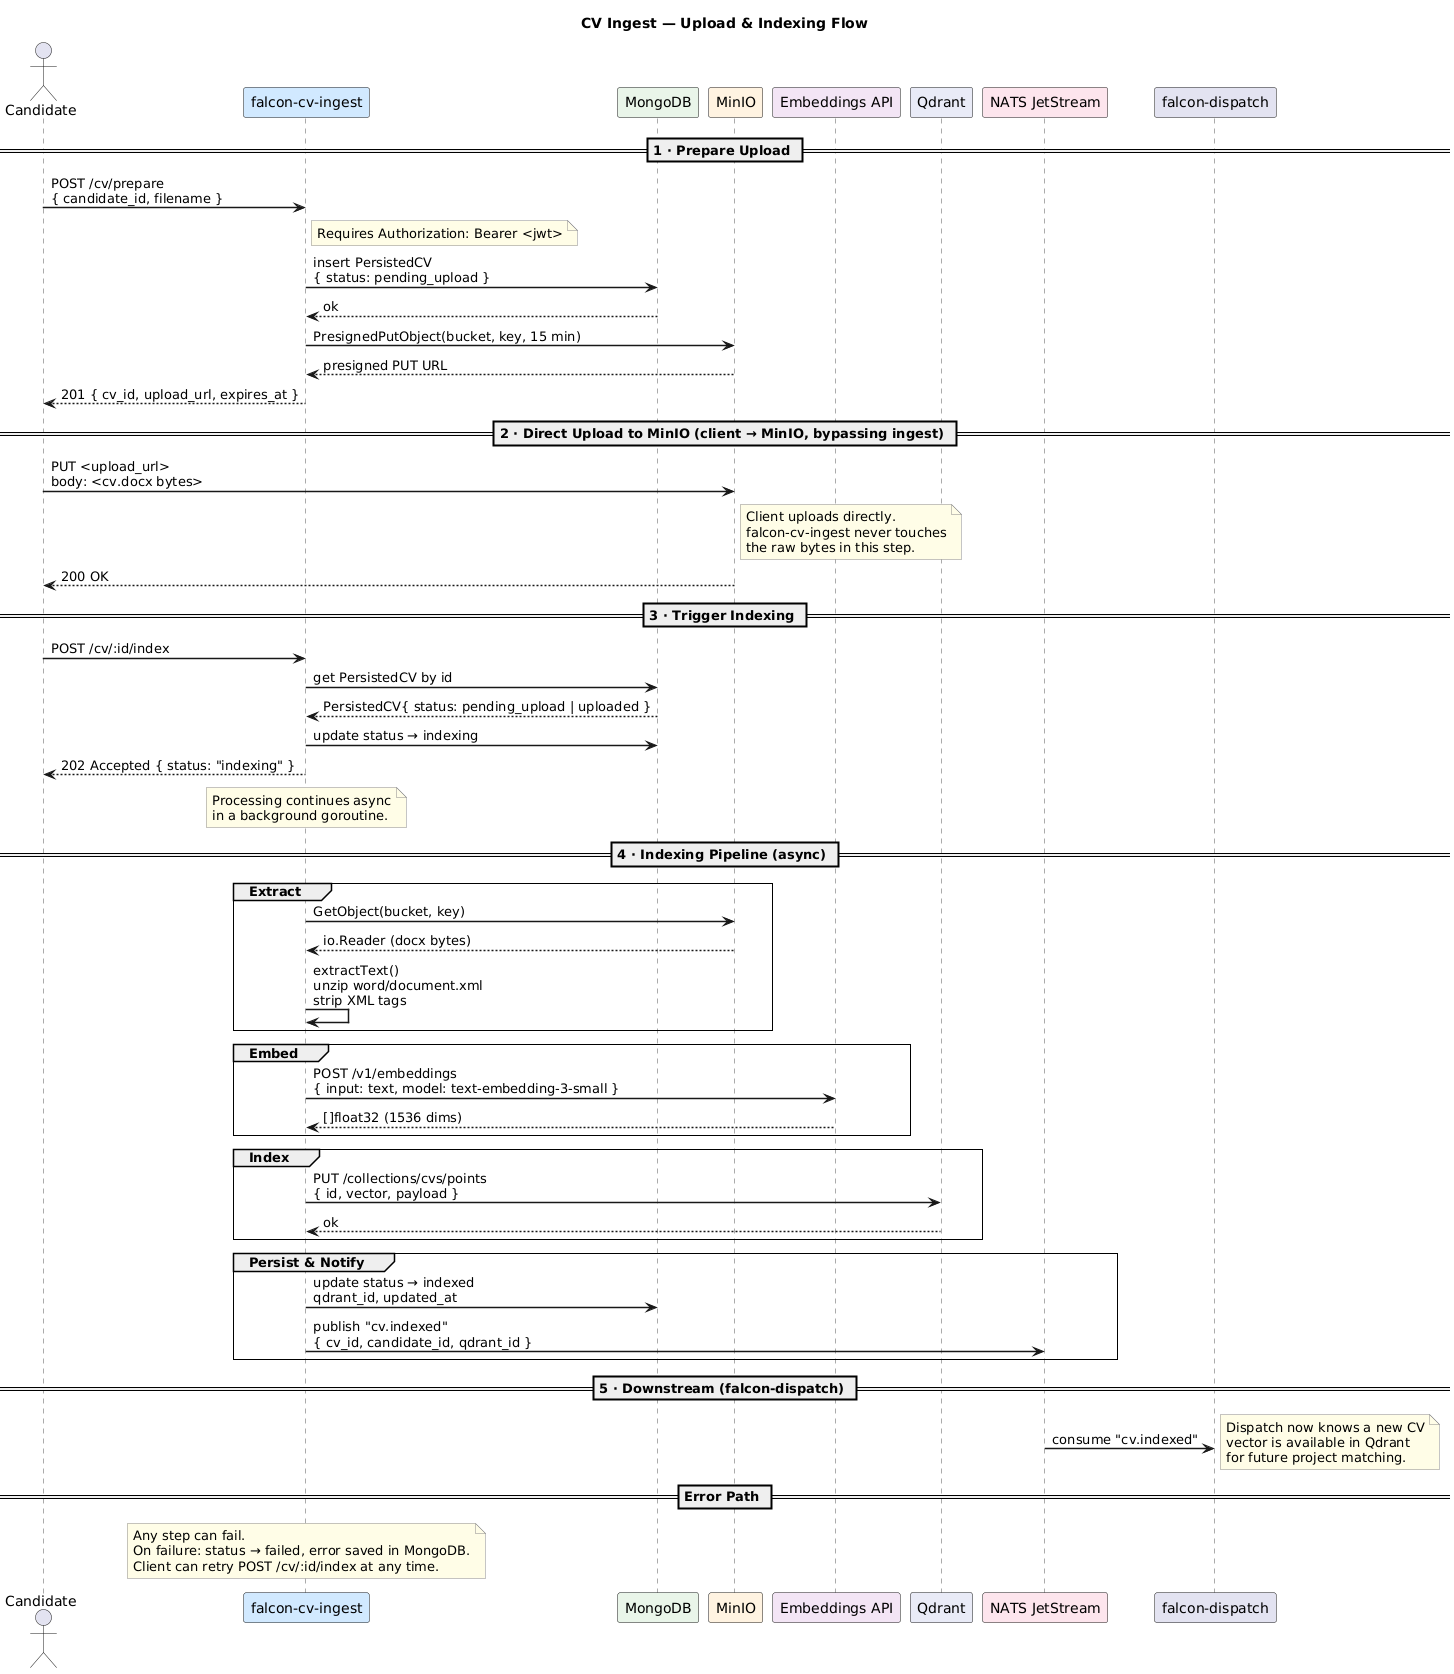
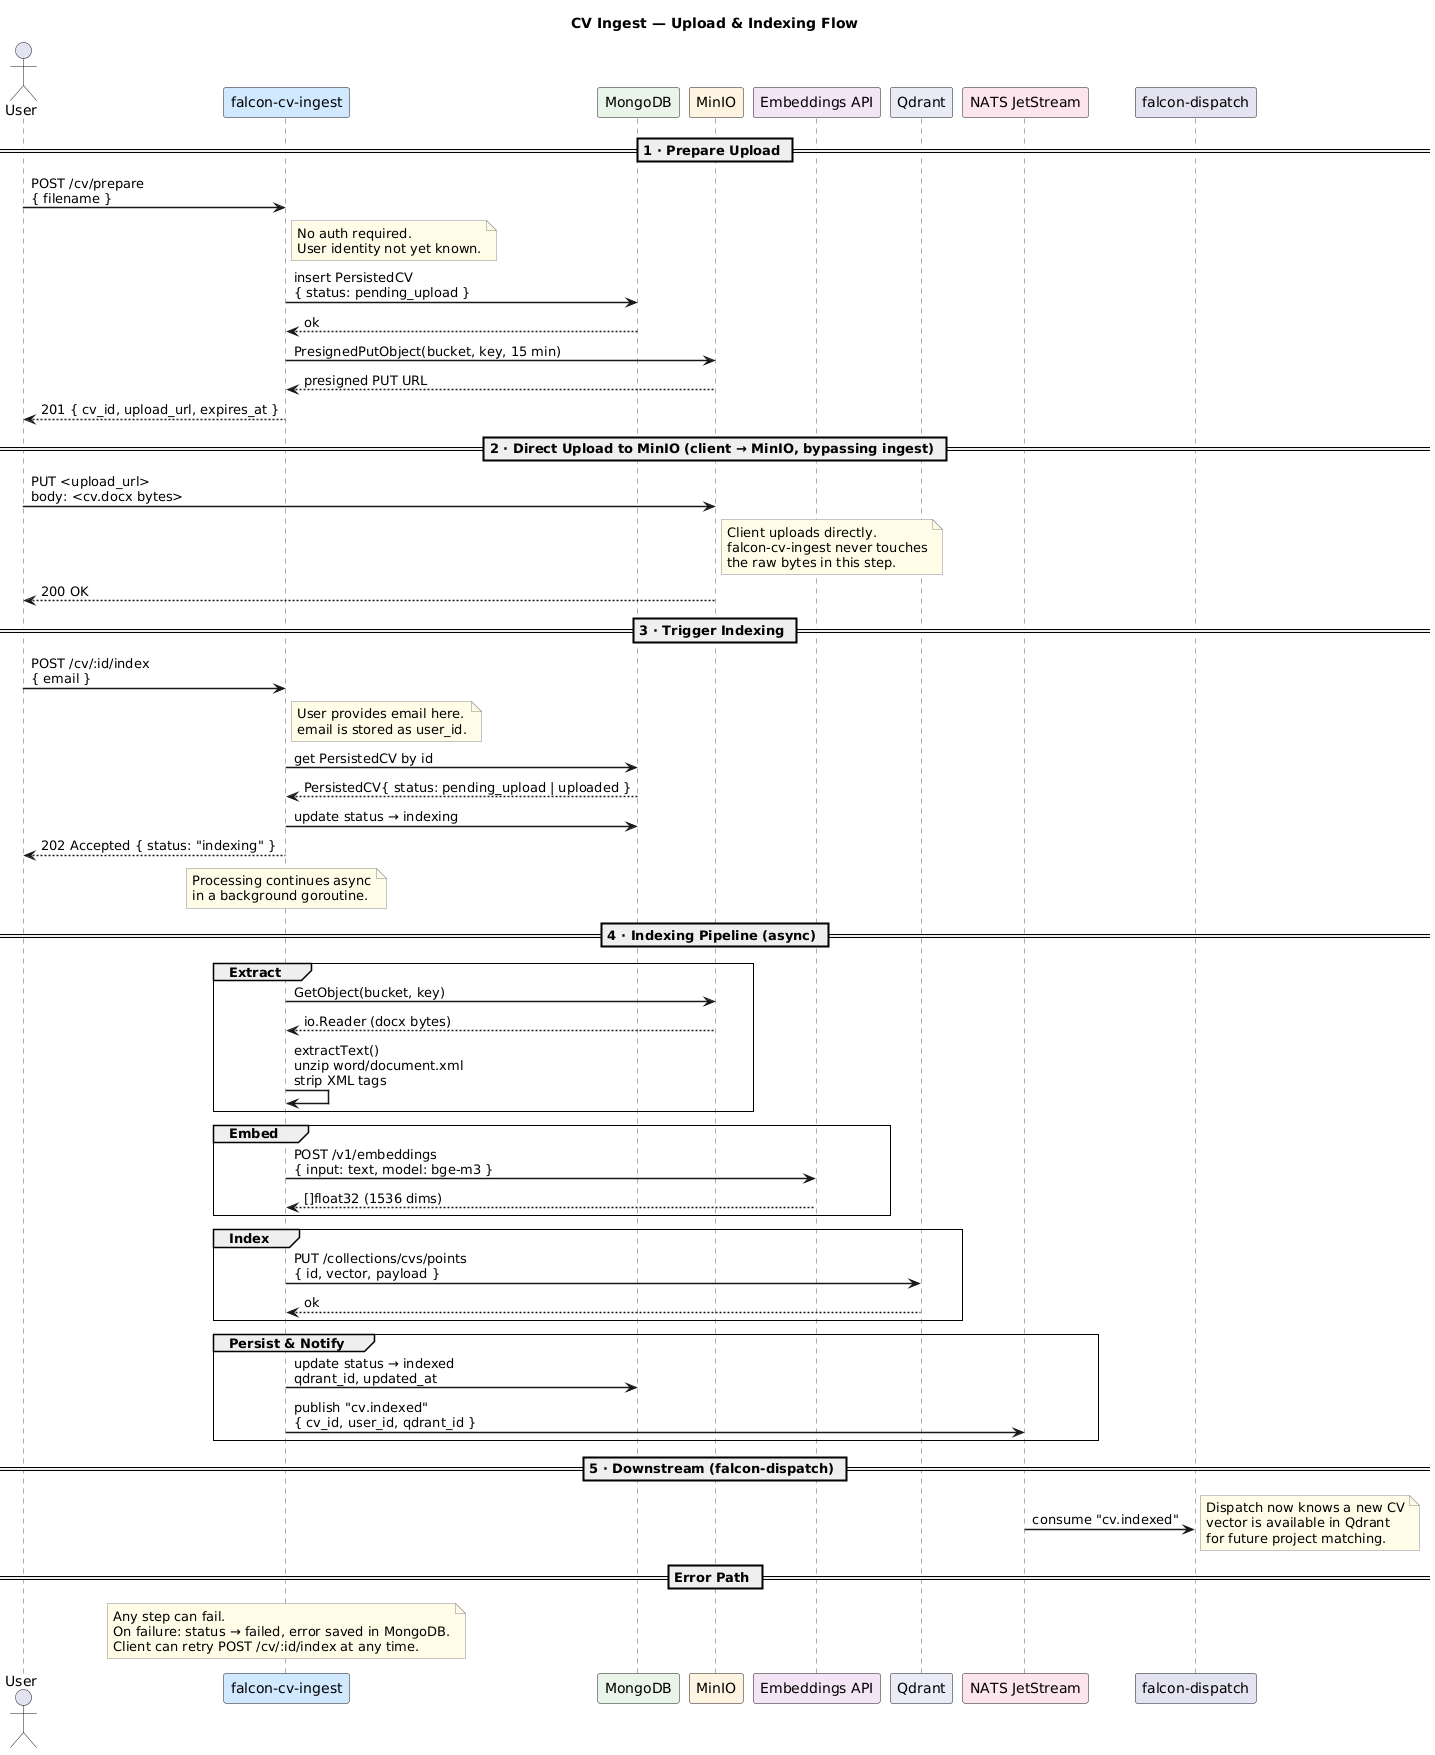
feat: extend readme with k3s and infra

diff --git a/falcon-cv-ingest/cv/service.go b/falcon-cv-ingest/cv/service.go
@@ -6,6 +6,7 @@ import (
 	"time"
 
 	"github.com/gin-gonic/gin"
+	"github.com/google/uuid"
 	gonanoid "github.com/matoous/go-nanoid/v2"
 	"github.com/minio/minio-go/v7"
 	"github.com/minio/minio-go/v7/pkg/credentials"
@@ -92,7 +93,8 @@ func NewService() (*Service, error) {
 
 // Prepare creates a pending CV record in MongoDB and returns a presigned
 // MinIO PUT URL that the client uses to upload the file directly.
-func (s *Service) Prepare(ctx context.Context, candidateID, filename string) (*PrepareResult, error) {
+// No user identity is required at this stage.
+func (s *Service) Prepare(ctx context.Context, filename string) (*PrepareResult, error) {
 	id := gonanoid.Must()
 	key := fmt.Sprintf("cvs/%s/%s", id, filename)
 	expiresAt := time.Now().Add(presignedURLExpiry)
@@ -104,7 +106,6 @@ func (s *Service) Prepare(ctx context.Context, candidateID, filename string) (*P
 
 	cv := &models.PersistedCV{
 		ID:          id,
-		CandidateID: candidateID,
 		Filename:    filename,
 		MinioBucket: s.minioBucket,
 		MinioKey:    key,
@@ -116,32 +117,60 @@ func (s *Service) Prepare(ctx context.Context, candidateID, filename string) (*P
 		return nil, fmt.Errorf("save cv record: %w", err)
 	}
 
-	res := &PrepareResult{
+	return &PrepareResult{
 		CVID:      id,
 		UploadURL: uploadURL.String(),
 		ExpiresAt: expiresAt,
-	}
-
-	return res, nil
+	}, nil
 }
 
 // Index triggers async processing of a CV that has already been uploaded to MinIO.
-// It returns immediately with the CV ID; the caller polls or waits for the cv.indexed event.
-func (s *Service) Index(cvID string) error {
+// email is used to upsert a User record and obtain the user_id that is carried
+// through the entire pipeline.
+// It returns immediately; the caller polls or waits for the cv.indexed event.
+func (s *Service) Index(cvID, email string) error {
 	ctx := context.Background()
 
 	var cv models.PersistedCV
-	if err := system.GetStorage().Get(ctx, constants.MongoCVsCollection, bson.M{"id": cvID}, &cv); err != nil {
+	if err := system.GetStorage().GetById(ctx, constants.MongoCVsCollection, cvID, &cv); err != nil {
 		return fmt.Errorf("cv not found: %w", err)
 	}
 	if cv.Status == models.CVStatusIndexed || cv.Status == models.CVStatusIndexing {
 		return fmt.Errorf("cv already %s", cv.Status)
 	}
 
+	userID, err := s.upsertUser(ctx, email)
+	if err != nil {
+		return fmt.Errorf("upsert user: %w", err)
+	}
+
+	cv.UserID = userID
 	s.setStatus(ctx, cvID, models.CVStatusIndexing, "")
 
 	go s.process(cv)
 	return nil
+}
+
+// upsertUser returns the existing user ID for email, or creates a new User and
+// returns its ID.
+func (s *Service) upsertUser(ctx context.Context, email string) (string, error) {
+	var user models.User
+	err := system.GetStorage().Get(ctx, constants.MongoUsersCollection, bson.M{"email": email}, &user)
+	if err == nil {
+		return user.ID, nil
+	}
+
+	now := time.Now()
+	user = models.User{
+		ID:        gonanoid.Must(),
+		Email:     email,
+		CreatedAt: now,
+		UpdatedAt: now,
+	}
+	if err := system.GetStorage().SetById(ctx, constants.MongoUsersCollection, user.ID, &user); err != nil {
+		return "", fmt.Errorf("create user: %w", err)
+	}
+	return user.ID, nil
 }
 
 // process runs the full pipeline: download → extract → embed → qdrant → event.
@@ -190,8 +219,10 @@ func (s *Service) process(cv models.PersistedCV) {
 	log.Infof("embedding generated (%d dims)", len(vector))
 
 	// 4. Upsert into Qdrant.
-	payload := map[string]string{"candidate_id": cv.CandidateID, "filename": cv.Filename}
-	err = s.qdrant.Upsert(ctx, cv.ID, vector, payload)
+	// Qdrant point IDs must be a UUID or uint64 — use a dedicated UUID, not the nanoid CV ID.
+	qdrantID := uuid.New().String()
+	payload := map[string]string{"user_id": cv.UserID, "filename": cv.Filename}
+	err = s.qdrant.Upsert(ctx, qdrantID, vector, payload)
 	if err != nil {
 		fail("qdrant upsert", err)
 		return
@@ -201,7 +232,7 @@ func (s *Service) process(cv models.PersistedCV) {
 	now := time.Now()
 	if err := system.GetStorage().Set(ctx, constants.MongoCVsCollection, bson.M{"id": cv.ID}, bson.M{
 		"status":     models.CVStatusIndexed,
-		"qdrant_id":  cv.ID,
+		"qdrant_id":  qdrantID,
 		"error":      "",
 		"updated_at": now,
 	}); err != nil {
@@ -210,9 +241,9 @@ func (s *Service) process(cv models.PersistedCV) {
 
 	// 6. Publish cv.indexed event.
 	event := models.CVIndexedEvent{
-		CVID:        cv.ID,
-		CandidateID: cv.CandidateID,
-		QdrantID:    cv.ID,
+		CVID:     cv.ID,
+		UserID:   cv.UserID,
+		QdrantID: qdrantID,
 	}
 	if err := system.Publish(ctx, constants.SubjectCVIndexed, event); err != nil {
 		log.Errorf("publish cv.indexed: %v", err)

diff --git a/falcon-cv-ingest/cv/handler.go b/falcon-cv-ingest/cv/handler.go
@@ -29,20 +29,19 @@ func Health(c *gin.Context) {
 
 // handlePrepare godoc
 // POST /cv/prepare
-// Body: { "candidate_id": "...", "filename": "cv.docx" }
+// Body: { "filename": "cv.docx" }
 // Returns: { "cv_id", "upload_url", "expires_at" }
 func handlePrepare(svc *Service) gin.HandlerFunc {
 	return func(c *gin.Context) {
 		var body struct {
-			CandidateID string `json:"candidate_id" binding:"required"`
-			Filename    string `json:"filename"     binding:"required"`
+			Filename string `json:"filename" binding:"required"`
 		}
 		if err := c.ShouldBindJSON(&body); err != nil {
 			c.JSON(http.StatusBadRequest, gin.H{"error": err.Error()})
 			return
 		}
 
-		result, err := svc.Prepare(c.Request.Context(), body.CandidateID, body.Filename)
+		result, err := svc.Prepare(c.Request.Context(), body.Filename)
 		if err != nil {
 			logrus.Errorf("prepare: %v", err)
 			c.JSON(http.StatusInternalServerError, gin.H{"error": "could not prepare upload"})
@@ -55,12 +54,21 @@ func handlePrepare(svc *Service) gin.HandlerFunc {
 
 // handleIndex godoc
 // POST /cv/:id/index
+// Body: { "email": "john@doe.com" }
 // Triggers async processing of an uploaded CV.
 func handleIndex(svc *Service) gin.HandlerFunc {
 	return func(c *gin.Context) {
 		cvID := c.Param("id")
 
-		if err := svc.Index(cvID); err != nil {
+		var body struct {
+			Email string `json:"email" binding:"required,email"`
+		}
+		if err := c.ShouldBindJSON(&body); err != nil {
+			c.JSON(http.StatusBadRequest, gin.H{"error": err.Error()})
+			return
+		}
+
+		if err := svc.Index(cvID, body.Email); err != nil {
 			logrus.Errorf("index %s: %v", cvID, err)
 			c.JSON(http.StatusBadRequest, gin.H{"error": err.Error()})
 			return

diff --git a/common/models/cv.go b/common/models/cv.go
@@ -13,10 +13,10 @@ const (
 	CVStatusFailed        CVStatus = "failed"
 )
 
-// PersistedCV is the MongoDB document for a candidate CV.
+// PersistedCV is the MongoDB document for a user CV.
 type PersistedCV struct {
 	ID          string    `json:"id"           bson:"id"`
-	CandidateID string    `json:"candidate_id" bson:"candidate_id"`
+	UserID      string    `json:"user_id"      bson:"user_id"`
 	Filename    string    `json:"filename"     bson:"filename"`
 	MinioBucket string    `json:"minio_bucket" bson:"minio_bucket"`
 	MinioKey    string    `json:"minio_key"    bson:"minio_key"`
@@ -30,7 +30,7 @@ type PersistedCV struct {
 // CVIndexedEvent is published to NATS subject "cv.indexed" once a CV has been
 // fully processed and its vector stored in Qdrant.
 type CVIndexedEvent struct {
-	CVID        string `json:"cv_id"`
-	CandidateID string `json:"candidate_id"`
-	QdrantID    string `json:"qdrant_id"`
+	CVID     string `json:"cv_id"`
+	UserID   string `json:"user_id"`
+	QdrantID string `json:"qdrant_id"`
 }

diff --git a/falcon-cv-ingest/cv/embeddings.go b/falcon-cv-ingest/cv/embeddings.go
@@ -3,7 +3,9 @@ package cv
 import (
 	"context"
 	"fmt"
+	"time"
 
+	"github.com/sirupsen/logrus"
 	"hblabs.co/falcon/common/helpers"
 	"hblabs.co/falcon/common/ownhttp"
 )
@@ -30,6 +32,8 @@ func newEmbeddingsClient() (*embeddingsClient, error) {
 
 // Embed returns the embedding vector for the given text.
 func (c *embeddingsClient) Embed(ctx context.Context, text string) ([]float32, error) {
+	start := time.Now()
+
 	var result struct {
 		Data []struct {
 			Embedding []float32 `json:"embedding"`
@@ -49,6 +53,8 @@ func (c *embeddingsClient) Embed(ctx context.Context, text string) ([]float32, e
 	if len(result.Data) == 0 {
 		return nil, fmt.Errorf("embeddings API returned empty data")
 	}
+
+	logrus.WithField("took", time.Since(start).String()).Info("Embed")
 
 	return result.Data[0].Embedding, nil
 }

diff --git a/common/models/user.go b/common/models/user.go
@@ -1,0 +1,12 @@
+package models
+
+import "time"
+
+// User is the MongoDB document for a registered or anonymous freelance user.
+// Anonymous users are created at CV index time with only their email set.
+type User struct {
+	ID        string    `json:"id"         bson:"id"`
+	Email     string    `json:"email"      bson:"email"`
+	CreatedAt time.Time `json:"created_at" bson:"created_at"`
+	UpdatedAt time.Time `json:"updated_at" bson:"updated_at"`
+}

diff --git a/common/constants/collections.go b/common/constants/collections.go
@@ -1,6 +1,7 @@
 package constants
 
 const (
+	MongoUsersCollection    = "users"
 	MongoProjectsCollection = "projects"
 	MongoCVsCollection      = "cvs"
 )

diff --git a/README.md b/README.md
@@ -8,24 +8,86 @@ Created in Hamburg with ❤, April 2026
 
 **falcon-auth** — Handles authentication and authorization across the entire platform. Issues and validates JWT tokens, manages user registration and login, and acts as the identity provider for all other services.
 
-**falcon-cv-ingest** — Accepts CV uploads in Word format from candidates. Extracts raw text from the documents, generates vector embeddings via an embeddings API, stores the binary file in MinIO, saves metadata in MongoDB, and stores the vector in Qdrant. Publishes a `cv.indexed` event to NATS when processing is complete.
+**falcon-cv-ingest** — Accepts CV uploads in Word format from users. Extracts raw text from the documents, generates vector embeddings via an embeddings API, stores the binary file in MinIO, saves metadata in MongoDB, and stores the vector in Qdrant. Publishes a `cv.indexed` event to NATS when processing is complete.
 
 **falcon-scout** — Continuously scrapes freelance portals (freelance.de, gulp.de, malt.de, etc.) looking for new projects. Stores project data and metadata in MongoDB and publishes a `project.created` event to NATS for every new project detected, or `project.updated` when an existing project changes.
 
-**falcon-dispatch** — Consumes `project.created` and `project.updated` events from NATS. Performs a fast vector similarity search in Qdrant to find candidates whose CVs are semantically close to the new project description. For each candidate above the similarity threshold, publishes a `match.pending` message to the match queue in NATS.
+**falcon-dispatch** — Consumes `project.created` and `project.updated` events from NATS. Performs a fast vector similarity search in Qdrant to find users whose CVs are semantically close to the new project description. For each user above the similarity threshold, publishes a `match.pending` message to the match queue in NATS.
 
 **falcon-match-engine** — Pool of workers that consume `match.pending` messages from NATS. Each worker fetches the full CV text and project description, calls the LLM (Claude Haiku or Gemini Flash) to produce a match score and a human-readable explanation, and publishes a `match.result` event if the score exceeds the configured threshold. Scales horizontally by adding more worker instances.
 
-**falcon-signal** — Consumes `match.result` events from NATS and delivers real-time notifications to the matched candidate via their preferred channel — email, Telegram bot, push notification, or webhook.
+**falcon-signal** — Consumes `match.result` events from NATS and delivers real-time notifications to the matched user via their preferred channel — email, Telegram bot, push notification, or webhook.
 
 ## Infrastructure
 
-**MongoDB** — NoSQL document database used as the primary data store across services. Stores candidate metadata (ingested from CVs), raw project data scraped by falcon-scout, and match results. Chosen for its flexible schema, which accommodates evolving document structures without migrations.
+**MongoDB** — NoSQL document database used as the primary data store across services. Stores users metadata (ingested from CVs), raw project data scraped by falcon-scout, and match results. Chosen for its flexible schema, which accommodates evolving document structures without migrations.
 
 **Qdrant** — Vector database purpose-built for high-performance similarity search. Stores the embeddings generated from CV text and project descriptions. falcon-dispatch queries Qdrant to find semantically similar CV/project pairs in milliseconds, even at large scale. Supports filtering and payload storage alongside vectors.
 
 **NATS JetStream** — Distributed messaging system with persistent, at-least-once delivery guarantees (JetStream layer on top of core NATS). Used as the event bus between all services: `cv.indexed`, `project.created`, `project.updated`, `match.pending`, and `match.result` events flow through it. JetStream provides durable subscriptions and replay, so no events are lost if a consumer is temporarily down.
 
-**Ollama** — Local inference server that runs embedding models on-premise. falcon-cv-ingest uses it to generate vector embeddings from CV text via an OpenAI-compatible API (`/v1/embeddings`). Running embeddings locally means candidate CV data never leaves the infrastructure, which is a hard requirement under GDPR. The model in use is `bge-m3`, chosen for its strong multilingual performance — relevant because CVs and project descriptions on the platform are predominantly in German.
+**Ollama** — Local inference server that runs embedding models on-premise. falcon-cv-ingest uses it to generate vector embeddings from CV text via an OpenAI-compatible API (`/v1/embeddings`). Running embeddings locally means user CV data never leaves the infrastructure, which is a hard requirement under GDPR. The model in use is `bge-m3`, chosen for its strong multilingual performance — relevant because CVs and project descriptions on the platform are predominantly in German.
 
-**MinIO** — S3-compatible object storage deployed on-premises. Stores the original CV binary files (Word documents) uploaded by candidates. Services access files through the standard S3 API, making it straightforward to swap for AWS S3 or GCS in production without code changes.
+**MinIO** — S3-compatible object storage deployed on-premises. Stores the original CV binary files (Word documents) uploaded by users. Services access files through the standard S3 API, making it straightforward to swap for AWS S3 or GCS in production without code changes.
+
+## Running Ollama natively on Apple Silicon
+
+Docker on macOS runs inside a Linux VM with no access to the Metal GPU, forcing
+CPU-only inference (~23s per embedding). Running Ollama natively uses Metal and
+brings that down to under 1s.
+
+```bash
+# Install
+brew install ollama
+
+# Start the server (runs on http://localhost:11434)
+ollama serve
+
+# Pull the embedding model
+ollama pull bge-m3
+```
+
+Ollama will start automatically on login after installation. The rest of the
+stack (`docker compose up`) connects to it at `http://host.docker.internal:11434`
+— make sure `EMBEDDINGS_URL` in your `.env` points there.
+
+> On Linux with an NVIDIA GPU, use the Docker service in `docker-compose.yml`
+> (see the commented block) and add the `nvidia` runtime instead.
+
+## Production Infrastructure (k3s / k8s)
+
+![Infrastructure](k3s-infrastructure.png)
+
+All Falcon microservices and stateful components (MongoDB, Qdrant, NATS, MinIO)
+run as standard Kubernetes workloads and can be deployed to any k3s or k8s cluster.
+
+### Ollama on Apple Silicon
+
+Ollama cannot access the Metal GPU from inside a container (no Metal passthrough
+exists in any virtualisation layer on macOS). The solution is to run Ollama
+**natively on the host** and expose it to the cluster over HTTP.
+
+Recommended setup with a Mac Mini (M-series) as a dedicated inference node:
+
+1. Install and start Ollama natively on the Mac Mini:
+   ```bash
+   brew install ollama
+   ollama pull bge-m3
+   brew services start ollama   # starts on boot
+   ```
+2. Add the Mac Mini as a k3s agent node normally.
+3. Create a Kubernetes `Service` + `Endpoints` pointing to `http://<mac-mini-ip>:11434`
+   so pods resolve Ollama via a stable in-cluster DNS name.
+4. Set `EMBEDDINGS_URL=http://ollama.default.svc.cluster.local/v1/embeddings`
+   in the `falcon-cv-ingest` deployment.
+
+This gives full Metal GPU acceleration (<1s per embedding) with zero changes to
+the application code. See `k3s-infrastructure.puml` for the full topology.
+
+## Local UIs
+
+| Service | URL | Credentials |
+|---------|-----|-------------|
+| MinIO console | http://localhost:9001 | `minioadmin` / `minioadmin` |
+| Qdrant dashboard | http://localhost:6333/dashboard | — |
+| NATS monitoring | http://localhost:8222 | — |
